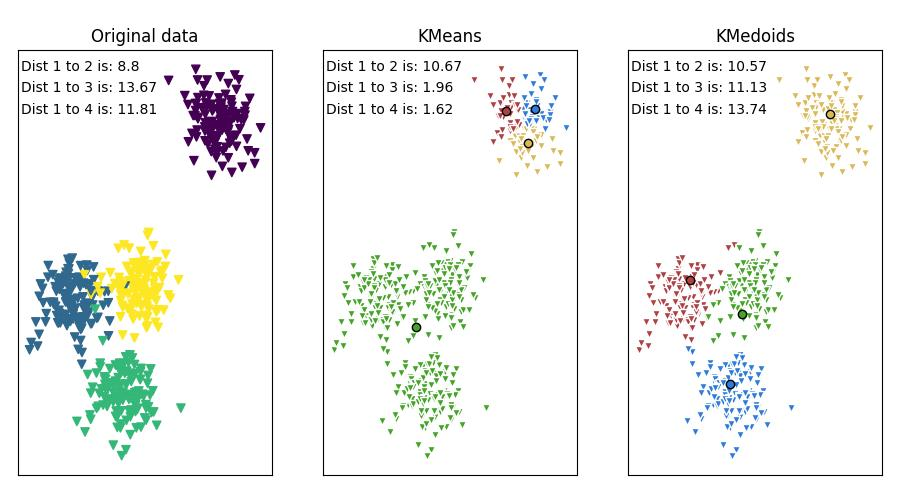
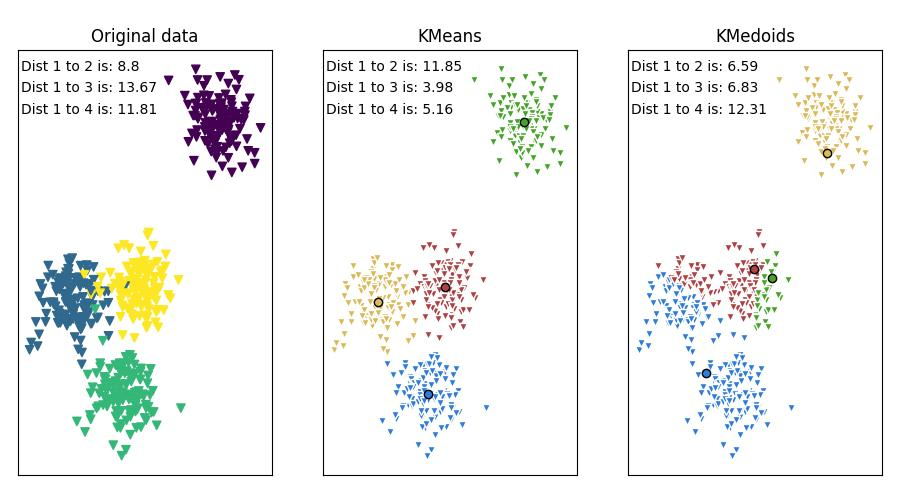
grafica de siluetas primera parte ok

diff --git a/main.py b/main.py
@@ -13,8 +13,12 @@ import io
 import modules.kmeans_un as kmeans_un
 import modules.kmedoids_un as kmedoids_un
 from modules.toy_implement import toy_data,plot_some
+#silhouette
+from modules.silhouette import silhouette_score,silhouette_coefficient
+from sklearn.metrics import silhouette_score, silhouette_samples
 #Time
 import time
+import random
 
 app = FastAPI()
 
@@ -25,6 +29,7 @@ def cluster_distances():
     #Test
     k=4
     x,y,centers = toy_data()
+    np.random.seed(1)
     centroids,labels_kmeans  = kmeans_un.kmeans(K=k).fit(x)
     medoids,labels_kmedoids  = kmedoids_un.KMedoids(K=k).fit(x)
     distance_centers=[]
@@ -37,4 +42,46 @@ def cluster_distances():
     im_png=plot_some(k,labels_kmeans,centroids,x,labels_kmedoids,medoids,y,distance_centers,distance_kmeans,distance_kmedoids)
     return StreamingResponse(io.BytesIO(im_png.tobytes()), media_type="image/jpeg")
 
+#kmeans_kmedoids
+@app.post("/5_kmeans_kmedoids_silhouette")
+def cluster_distances():
+    k=4
+    x,y,centers = toy_data()
+    np.random.seed(1)
+    k_means = kmeans_un.kmeans(K=k)
+    centroids,cluster_labels  = k_means.fit(x)
+    labels = k_means.predict(x)
+    silhouette_vals = silhouette_samples(x, labels)
+    silhouette_avg = np.mean(silhouette_vals)
+    cluster_labels = np.unique(labels)
+    n_clusters = cluster_labels.shape[0]
+    silhouette_vals = [silhouette_vals[labels == i] for i in cluster_labels]
+    fig, ax = plt.subplots()
+    y_lower, y_upper = 0, 0
+    yticks = []
+
+    colors = []
+    random.seed(17)
+    for _ in range(n_clusters):
+        color = ["#"+''.join([random.choice('0123456789ABCDEF') for j in range(6)])]
+        colors.append(color[0])
+    
+    for i, cluster in enumerate(cluster_labels):
+        cluster_silhouette_vals = silhouette_vals[i]
+        cluster_silhouette_vals.sort()
+        y_upper += len(cluster_silhouette_vals)
+        ax.barh(range(y_lower, y_upper), cluster_silhouette_vals, height=1.0,color=colors[i])
+        ax.text(-0.05, y_lower + 0.5 * len(cluster_silhouette_vals), str(i+1))
+        yticks.append((y_lower + y_upper) / 2.)
+        y_lower += len(cluster_silhouette_vals)
+        
+    ax.axvline(silhouette_avg, color="red", linestyle="--")
+    #ax.set_yticks(yticks)
+    #ax.set_yticklabels(cluster_labels + 1)
+    ax.set_xlabel("Coeficiente de silueta")
+    ax.set_ylabel("Cluster")
+    ax.set_xticks(())
+    ax.set_yticks(())
+    plt.show()
+    #return StreamingResponse(io.BytesIO(im_png.tobytes()), media_type="image/jpeg")
 

diff --git a/modules/silhouette.py b/modules/silhouette.py
@@ -1,0 +1,26 @@
+import numpy as np
+
+def euclidean_distance(x1, x2):
+    return np.sqrt(np.sum((x1 - x2)**2))
+
+def silhouette_coefficient(data, labels, point_index):
+    # Obtener el label del cluster del punto
+    point_label = labels[point_index]
+    # Obtener las distancias euclidianas del punto a los demás puntos en su cluster y a los puntos en los otros clusters
+    intra_cluster_distances = [euclidean_distance(data[point_index], data[i]) for i in range(len(data)) if labels[i] == point_label and i != point_index]
+    inter_cluster_distances = [np.mean([euclidean_distance(data[point_index], data[i]) for i in range(len(data)) if labels[i] == j]) for j in np.unique(labels) if j != point_label]
+    # Calcular el coeficiente de silueta para el punto
+    if len(intra_cluster_distances) > 0 and len(inter_cluster_distances) > 0:
+        a = np.mean(intra_cluster_distances)
+        b = np.min(inter_cluster_distances)
+        return (b - a) / np.max([a, b])
+    else:
+        return 0
+    
+def silhouette_score(data, labels):
+    # Calcular el coeficiente de silueta para cada punto en los datos
+    silhouette_scores = [silhouette_coefficient(data, labels, i) for i in range(len(data))]
+    # Calcular el promedio del coeficiente de silueta para todos los puntos
+    #return np.mean(silhouette_scores)
+    return silhouette_scores,np.mean(silhouette_scores)
+
